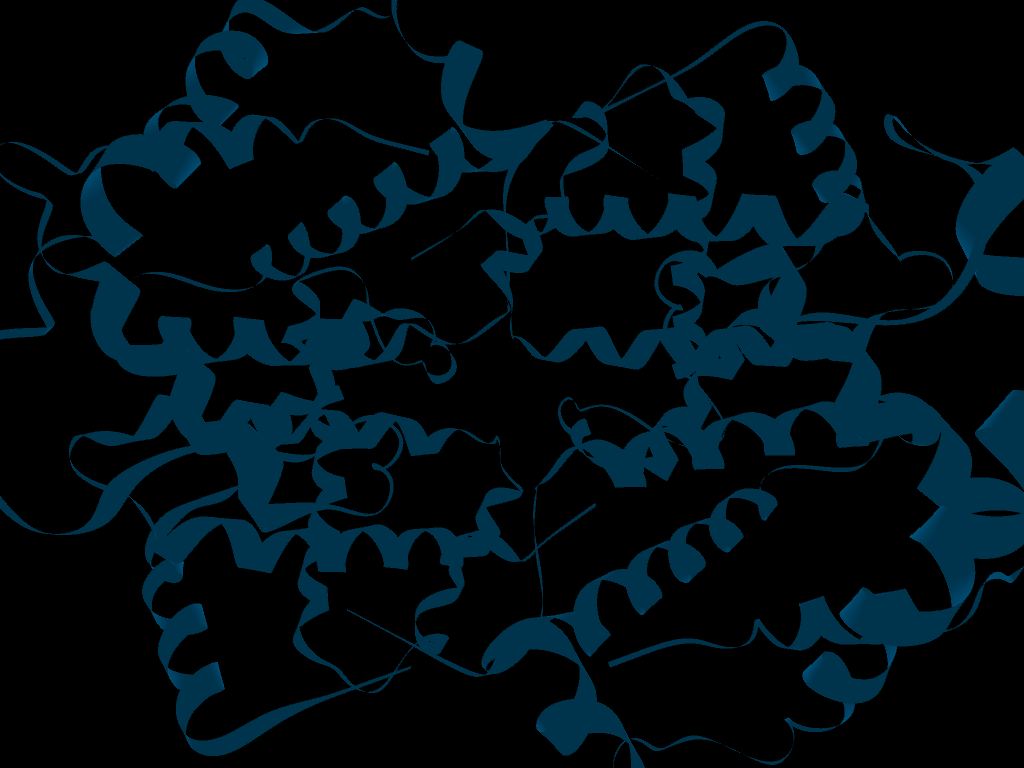
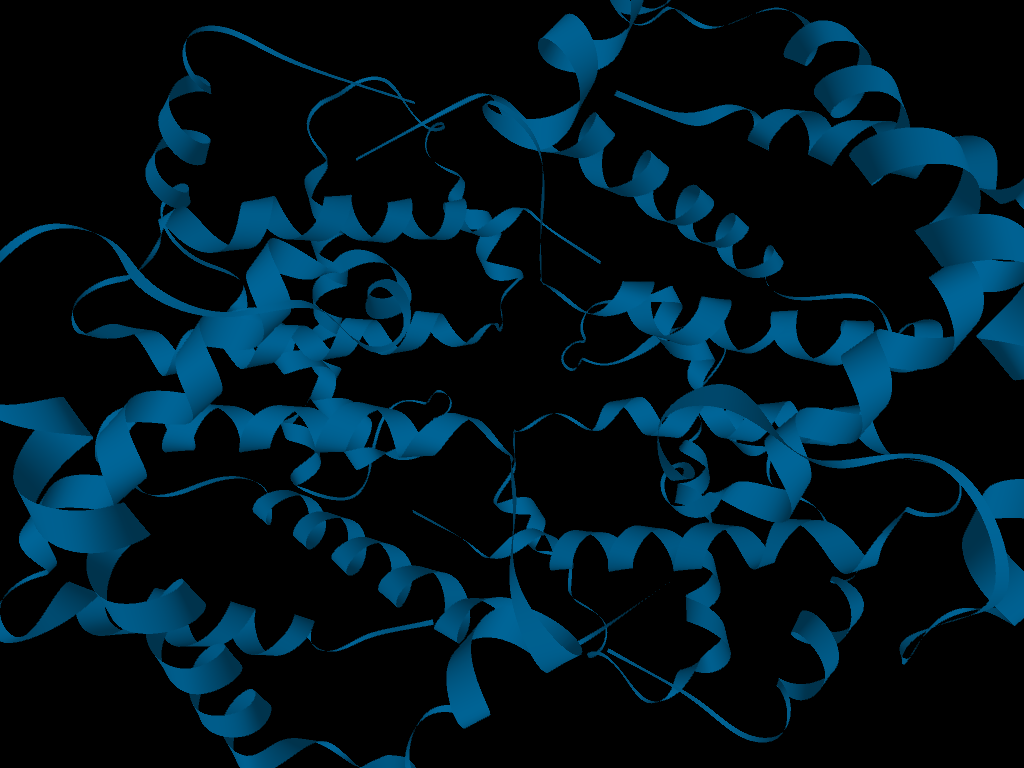
Add new rotate overload and fix broken Arcball implementation in Ribbons example.

diff --git a/examples/Demos/Graphics/Ribbons/ArcBall.h b/examples/Demos/Graphics/Ribbons/ArcBall.h
@@ -183,31 +183,7 @@ public:
   void applyQuat2Matrix(Quat q){
      // Extract the values from Q
      auto aa = q.getValue();
-     float q0 = aa[0];
-     float q1 = aa[1];
-     float q2 = aa[2];
-     float q3 = aa[3];
-
-     // Compute the elements of the rotation matrix
-     float r00 = 2 * (q0 * q0 + q1 * q1) - 1;
-     float r01 = 2 * (q1 * q2 - q0 * q3);
-     float r02 = 2 * (q1 * q3 + q0 * q2);
-
-     float r10 = 2 * (q1 * q2 + q0 * q3);
-     float r11 = 2 * (q0 * q0 + q2 * q2) - 1;
-     float r12 = 2 * (q2 * q3 - q0 * q1);
-
-     float r20 = 2 * (q1 * q3 - q0 * q2);
-     float r21 = 2 * (q2 * q3 + q0 * q1);
-     float r22 = 2 * (q0 * q0 + q3 * q3) - 1;
-
-     // Create and return the rotation matrix
-     transform( PMatrix(
-        PVector4{r00, r01, r02, 0.0},
-        PVector4{r10, r11, r12, 0.0},
-        PVector4{r20, r21, r22, 0.0},
-        PVector4{0.0, 0.0, 0.0, 1.0}
-                   ) );
+     rotate(aa[0], aa[1], aa[2], aa[3]);
   }
 };
 

diff --git a/src/processing_pshape.cc b/src/processing_pshape.cc
@@ -14,6 +14,10 @@
 
 #include "processing_debug.h"
 
+#include <glm/glm.hpp>
+#include <glm/gtc/quaternion.hpp>
+#include <glm/gtc/matrix_transform.hpp>
+
 #undef DEBUG_METHOD
 #define DEBUG_METHOD() do {} while (false)
 
@@ -204,6 +208,11 @@ public:
       indices.clear();
       children.clear();
       batch.clear();
+   }
+
+   void rotate(float angle, float x, float y, float z) {
+      DEBUG_METHOD();
+      rotate(angle, PVector(x,y,z));
    }
 
    void rotate(float angle) {
@@ -1722,6 +1731,10 @@ void PShape::copyStyle( const PShape other ) {
 
 void PShape::clear() {
    return impl->clear();
+}
+
+void PShape::rotate(float x, float y, float z, float w) {
+   return impl->rotate(x,y,z,w);
 }
 
 void PShape::rotate(float angle) {

diff --git a/src/processing_pgraphics.cc b/src/processing_pgraphics.cc
@@ -1116,6 +1116,10 @@ void PGraphics::rotate(float angle, PVector axis){
    return impl->_shape.rotate(angle,axis);
 }
 
+void PGraphics::rotate(float x, float y, float z, float w){
+   return impl->_shape.rotate(x,y,z,w);
+}
+
 void PGraphics::rotate(float angle){
    return impl->_shape.rotate(angle);
 }

diff --git a/include/processing_pshape.h b/include/processing_pshape.h
@@ -84,6 +84,8 @@ class PShape {
 
    void rotate(float angle, PVector axis);
 
+   void rotate(float x, float y, float z, float w);
+
    void translate(PVector t);
 
    void translate(float x, float y, float z=0);

diff --git a/include/processing_pgraphics.h b/include/processing_pgraphics.h
@@ -58,6 +58,8 @@ public:
 
    void scale(float x);
 
+   void rotate(float x, float y, float z, float w);
+
    void rotate(float angle, PVector axis);
 
    void rotate(float angle);
